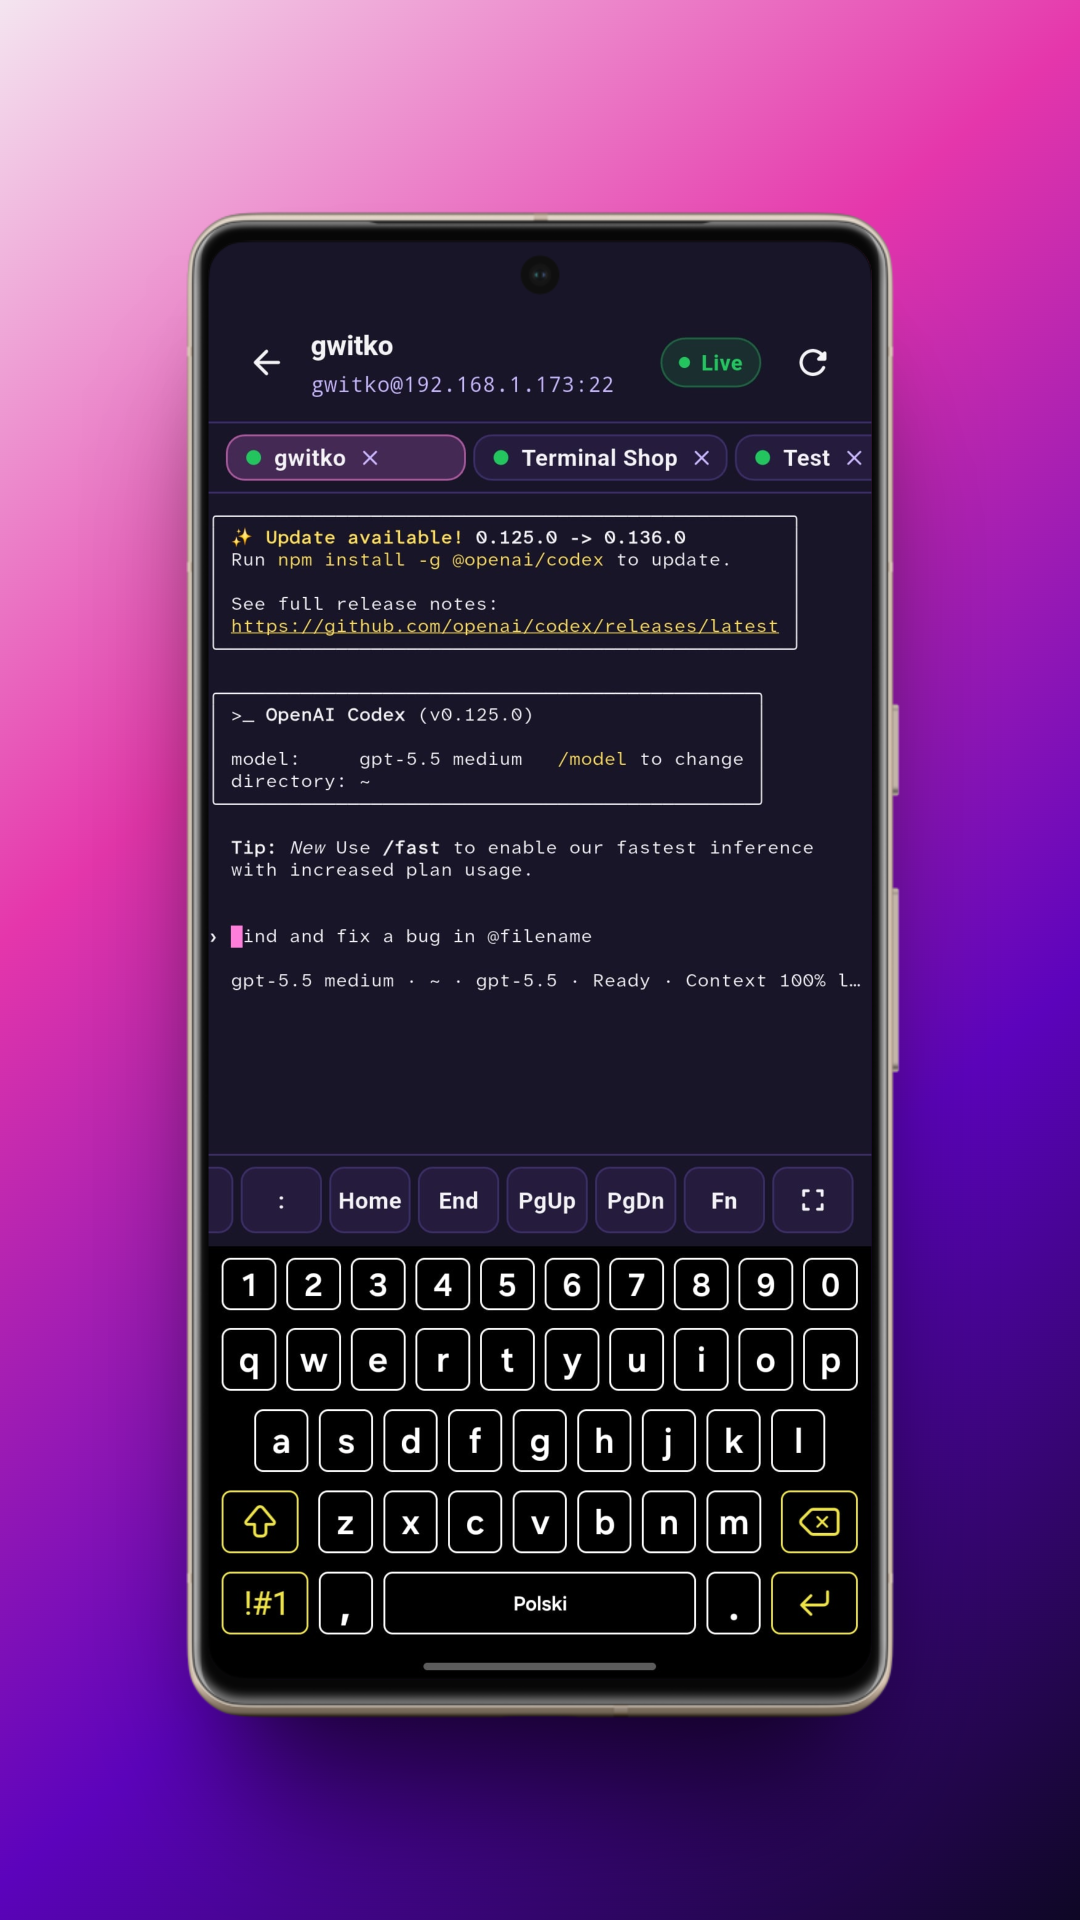
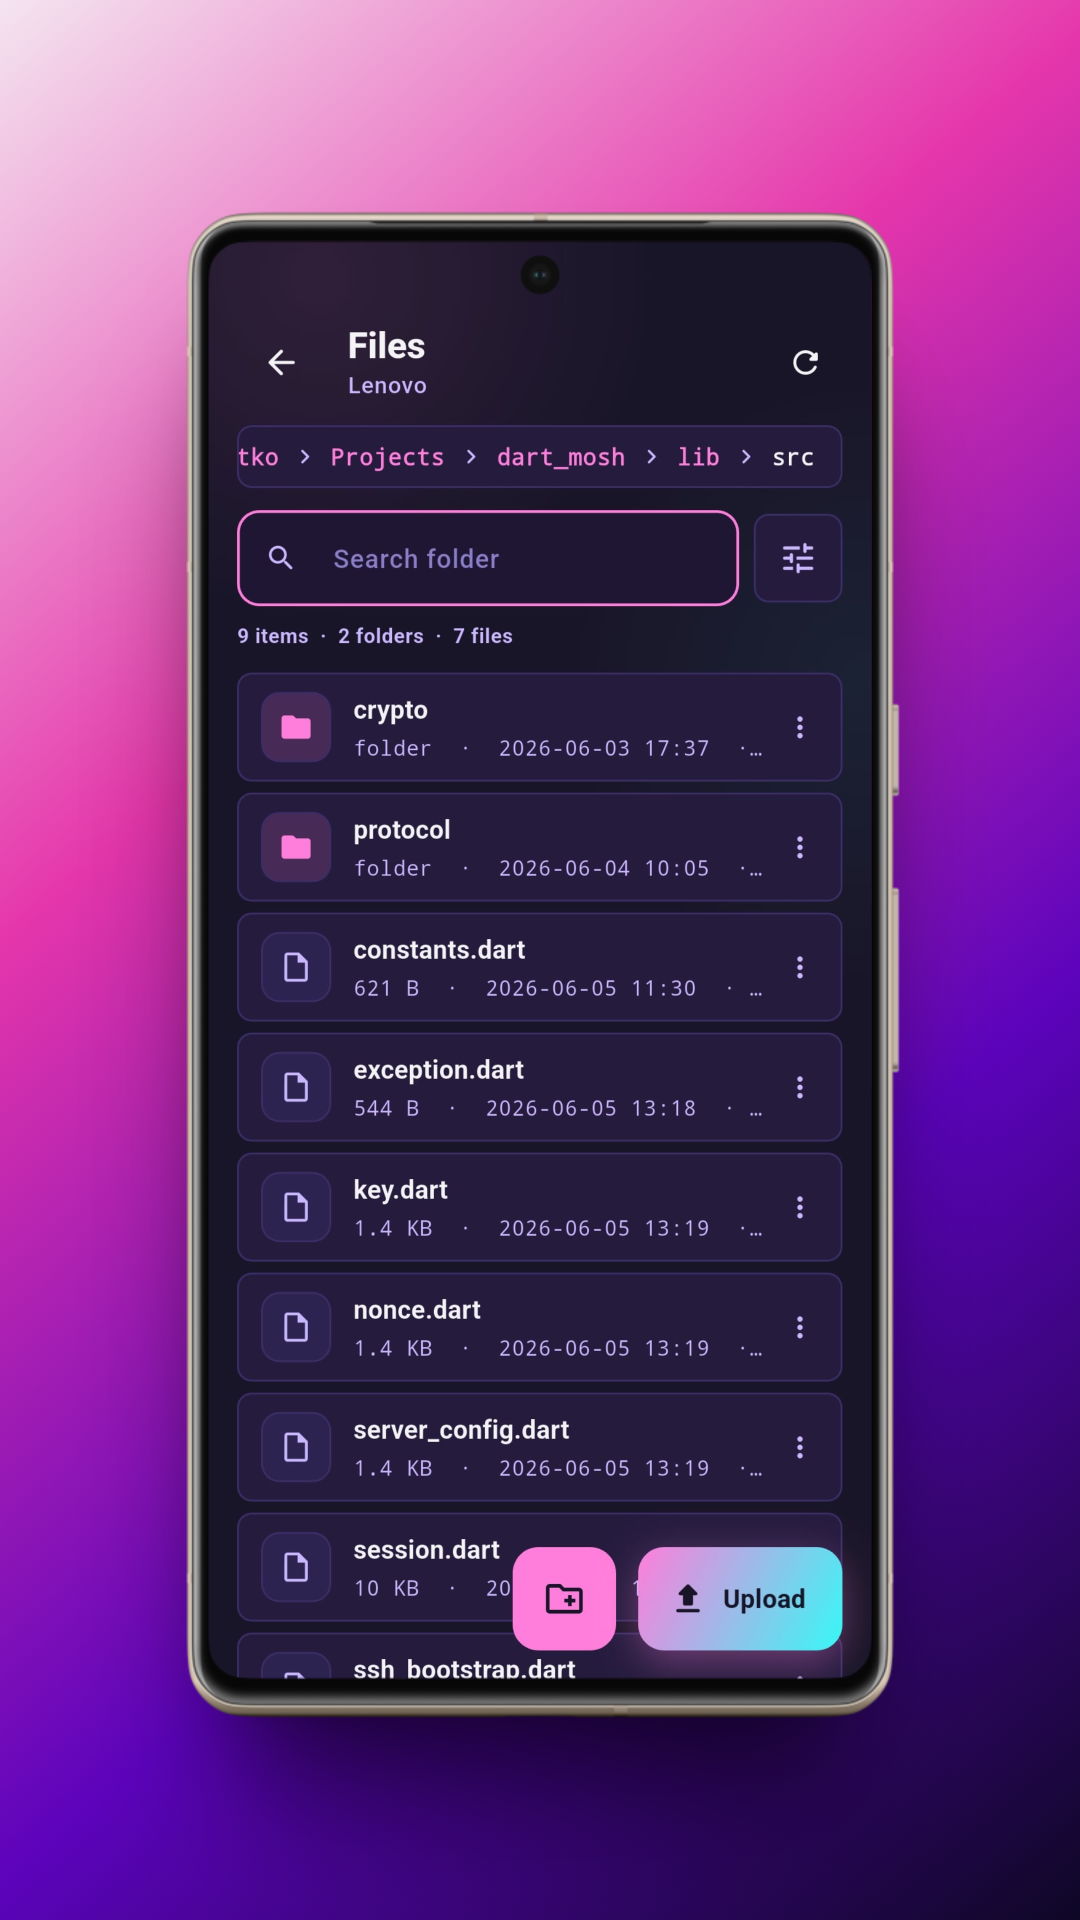
chore: edit fastlane metadata and readme

Changed region(s): [[0.1833, 0.1562, 0.825, 0.875], [0.7639, 0.375, 0.7944, 0.4062]]

diff --git a/README.md b/README.md
@@ -4,209 +4,38 @@
 [![License: Apache-2.0](https://img.shields.io/badge/license-Apache--2.0-blue.svg)](LICENSE)
 ![Flutter](https://img.shields.io/badge/Flutter-3.44.0-02569B?logo=flutter)
 ![Platforms](https://img.shields.io/badge/platforms-Android%20%7C%20iOS-2ea44f)
+[![Stars](https://img.shields.io/github/stars/gwitko/Conduit)](https://github.com/gwitko/Conduit/stargazers)
 
-**A local-first SSH, Mosh, and SFTP workspace for Android and iOS.**
+A local-first SSH, Mosh, and SFTP client for Android and iOS.
 
-Conduit is a mobile terminal client built for people who need to reach real
-machines from a phone without creating an account, syncing credentials through a
-service, or paying a subscription to open a shell.
+Conduit is for reaching real machines from your phone without signing into
+anything. Hosts, keys, and trusted fingerprints stay on the device — no account,
+no cloud sync, no subscription. Open a normal SSH shell, or a Mosh session that
+rides out Wi-Fi drops and cellular handoffs instead of dying with them. Sessions
+live in tabs, with on-screen modifier, arrow, and function keys for the things a
+phone keyboard doesn't have.
 
-It supports regular SSH sessions and Mosh-powered roaming terminals, so a
-session can stay usable across unreliable mobile networks, Wi-Fi handoffs, and
-everyday phone connectivity changes when the remote host is configured for
-Mosh.
+There's an SFTP browser for moving files around, host-key trust you manage
+yourself, an optional device-auth app lock, and a stack of built-in terminal
+themes (Catppuccin, Tokyo Night, Gruvbox, Nord, and the usual suspects).
 
-It stores connection profiles, credentials, and trusted host keys on device,
-supports device authentication when available, and provides a tabbed terminal
-workspace with mobile-friendly modifier, navigation, and function keys.
+Mosh is still experimental. It runs on
+[dart_mosh](https://github.com/gwitko/dart_mosh), a clean-room Dart
+implementation of the protocol, and the terminal is
+[conduit_vt](https://github.com/gwitko/conduit_vt), a fork of xterm.dart.
 
-> Screenshots and store-ready artwork are coming later. The app is already built
-> around real mobile workflows: roaming Mosh sessions, saved machines, tabbed
-> terminals, trusted keys, SFTP browsing, and terminal themes.
+## Screenshots
 
-## Highlights
-
-- **Mosh roaming** - keep terminal sessions usable through mobile network
-  changes, flaky Wi-Fi, and high-latency links.
-- **No accounts, no subscriptions** - your SSH profiles stay on your device.
-- **Secure local storage** - saved hosts, credentials, and trusted host keys are
-  stored with platform secure storage.
-- **Tabbed terminal workspace** - keep multiple sessions open and switch between
-  machines quickly.
-- **Mobile terminal controls** - on-screen modifier keys, function keys,
-  navigation keys, paste support, and fullscreen mode.
-- **SFTP browser** - browse remote files and export them through the native file
-  picker.
-- **Trusted host key management** - review and manage remembered host keys.
-- **App lock** - protect the app with device authentication when supported.
-- **Terminal themes** - built-in palettes for comfortable dark and light usage.
-- **Background keepalive** - keep live sessions alive while the app is
-  backgrounded, subject to platform limits. Android is supported through a
-  foreground service; iOS behavior still needs broader device testing.
-
-## Why Conduit?
-
-Most mobile SSH clients either feel like desktop tools squeezed onto a phone or
-cloud products wrapped around a terminal. Conduit takes a narrower approach:
-
-- Make common SSH and Mosh work fast on a phone.
-- Treat roaming terminal sessions as a first-class mobile workflow.
-- Keep private connection material local.
-- Treat host key trust as part of the product, not an afterthought.
-- Support terminal workflows that actually need mobile-specific controls.
-- Avoid accounts, sync services, subscriptions, and unnecessary moving parts.
-
-Conduit is not trying to be a full remote administration suite. It is a focused
-tool for opening shells, keeping sessions reachable on mobile networks, moving
-files, and getting work done from a mobile device.
-
-## Features
-
-### Saved Machines
-
-Create reusable connection profiles with names, hosts, ports, usernames,
-password or private-key authentication, tags, connection timeouts, and optional
-Mosh settings.
-
-Profiles are searchable and can be grouped with tags such as `prod`, `lab`,
-`staging`, or `home`.
-
-### Mosh Roaming
-
-Conduit can route terminal sessions through Mosh for better behavior on mobile
-networks. Mosh is built for roaming connections: it can tolerate network
-changes, packet loss, latency spikes, suspended phones, and Wi-Fi-to-cellular
-handoffs better than a plain SSH terminal.
-
-This is one of Conduit's core mobile features. SSH remains available for normal
-connections, while Mosh can be enabled per saved machine when the remote host
-has `mosh-server` installed and reachable UDP ports.
-
-Mosh support is currently marked experimental while
-[`dart_mosh`](https://github.com/gwitko/dart_mosh), a clean-room Dart
-implementation of the Mosh protocol features Conduit needs, continues to
-mature.
-
-### Terminal Workspace
-
-Open SSH or Mosh machines in a tabbed terminal workspace. Conduit keeps active
-sessions available from the machines screen, shows live connection status, and
-provides a fullscreen terminal mode for more screen space.
-
-The terminal uses a bundled Nerd Font variant and supports common mobile
-terminal affordances such as modifier keys, function keys, navigation keys, and
-paste handling.
-
-### SFTP Browser
-
-Open an SFTP browser from any saved machine, navigate remote directories, and
-export files using the platform file picker.
-
-### Host Key Trust
-
-Conduit prompts before trusting unknown host keys and stores trusted keys
-locally. A dedicated trusted-keys view lets you review and remove remembered
-keys.
-
-### Appearance
-
-Conduit includes multiple terminal-oriented palettes, including Catppuccin,
-Tokyo Night, Dracula, Nord, Gruvbox, Solarized, One Dark, Rosé Pine, Everforest,
-Monokai, Ayu Dark, Kanagawa, Night Owl, Palenight, Synthwave, and GitHub Dark.
-
-## Project Status
-
-Conduit is under active development. The core app is usable, but the project is
-still evolving around connection reliability, platform behavior, packaging, and
-visual documentation.
-
-Expected rough edges:
-
-- Mobile operating systems, especially iOS, may limit long-running background
-  network activity.
-- Mosh requires `mosh-server` and compatible UDP access on the remote host.
-- Some terminal programs may expose edge cases in keyboard input, resize
-  handling, or escape-sequence behavior.
-
-## Security Model
-
-Conduit is designed as a local-first client:
-
-- It does not require a Conduit account.
-- It does not sync connection profiles through a Conduit service.
-- It stores saved hosts and trusted host keys on device using platform secure
-  storage.
-- It supports app unlock through device authentication when available.
-
-You are still responsible for normal SSH operational security: protecting your
-device, using strong credentials or keys, verifying host keys, and removing
-stale trusted keys.
-
-## Build
-
-This project targets **Flutter 3.44.1**.
-
-```sh
-flutter pub get
-flutter build apk --split-per-abi
-```
-
-For iOS, open the generated Flutter iOS project with Xcode after fetching
-dependencies:
-
-```sh
-flutter pub get
-open ios/Runner.xcworkspace
-```
-
-## Test
-
-```sh
-flutter analyze
-flutter test
-```
-
-## Repository Layout
-
-```text
-lib/
-  core/                 Shared theme, presentation, and failure types
-  features/
-    app_lock/           Device authentication and lock screen
-    hosts/              Saved machine profiles
-    terminal/           SSH/Mosh terminal sessions and workspace UI
-    sftp/               Remote file browsing and export
-test/                   Unit and widget tests
-assets/                 App icon and bundled terminal font
-```
-
-## Contributing
-
-Contributions are welcome, especially around:
-
-- terminal input and escape-sequence correctness
-- Android and iOS lifecycle behavior
-- SFTP workflows
-- accessibility and small-screen ergonomics
-- packaging, release automation, and documentation
-- screenshots and visual assets
-
-Before opening a larger change, prefer starting with an issue or discussion so
-the scope stays aligned with the app's local-first, mobile-focused direction.
-
-### iOS Maintainer Wanted
-
-Conduit is developed primarily without regular access to Apple hardware. Help
-from someone who can test on iPhone, validate iOS lifecycle behavior, and keep
-the Xcode/App Store side healthy would be especially valuable. If that sounds
-like you, open an issue or contact `[email redacted]`.
-
-## Third-Party Assets
-
-The bundled terminal font is AtkynsonMono Nerd Font Mono from the
-[Nerd Fonts v3.4.0 release](https://github.com/ryanoasis/nerd-fonts/releases/tag/v3.4.0).
-Its license is included in `assets/fonts/LICENSE-AtkynsonMono.txt`.
-
-## License
-
-Conduit is distributed under the terms of the license in [`LICENSE`](LICENSE).
+<p align="center">
+  <img src="fastlane/metadata/android/en-US/images/phoneScreenshots/05-machines.png" width="200">
+  <img src="fastlane/metadata/android/en-US/images/phoneScreenshots/01-terminal-nvim.png" width="200">
+  <img src="fastlane/metadata/android/en-US/images/phoneScreenshots/06-terminal-btop.png" width="200">
+  <img src="fastlane/metadata/android/en-US/images/phoneScreenshots/07-terminal-claude-code.png" width="200">
+</p>
+<p align="center">
+  <img src="fastlane/metadata/android/en-US/images/phoneScreenshots/08-terminal-codex.png" width="200">
+  <img src="fastlane/metadata/android/en-US/images/phoneScreenshots/09-terminal-unimatrix.png" width="200">
+  <img src="fastlane/metadata/android/en-US/images/phoneScreenshots/04-sftp.png" width="200">
+  <img src="fastlane/metadata/android/en-US/images/phoneScreenshots/03-appearance.png" width="200">
+  <img src="fastlane/metadata/android/en-US/images/phoneScreenshots/02-theme.png" width="200">
+</p>